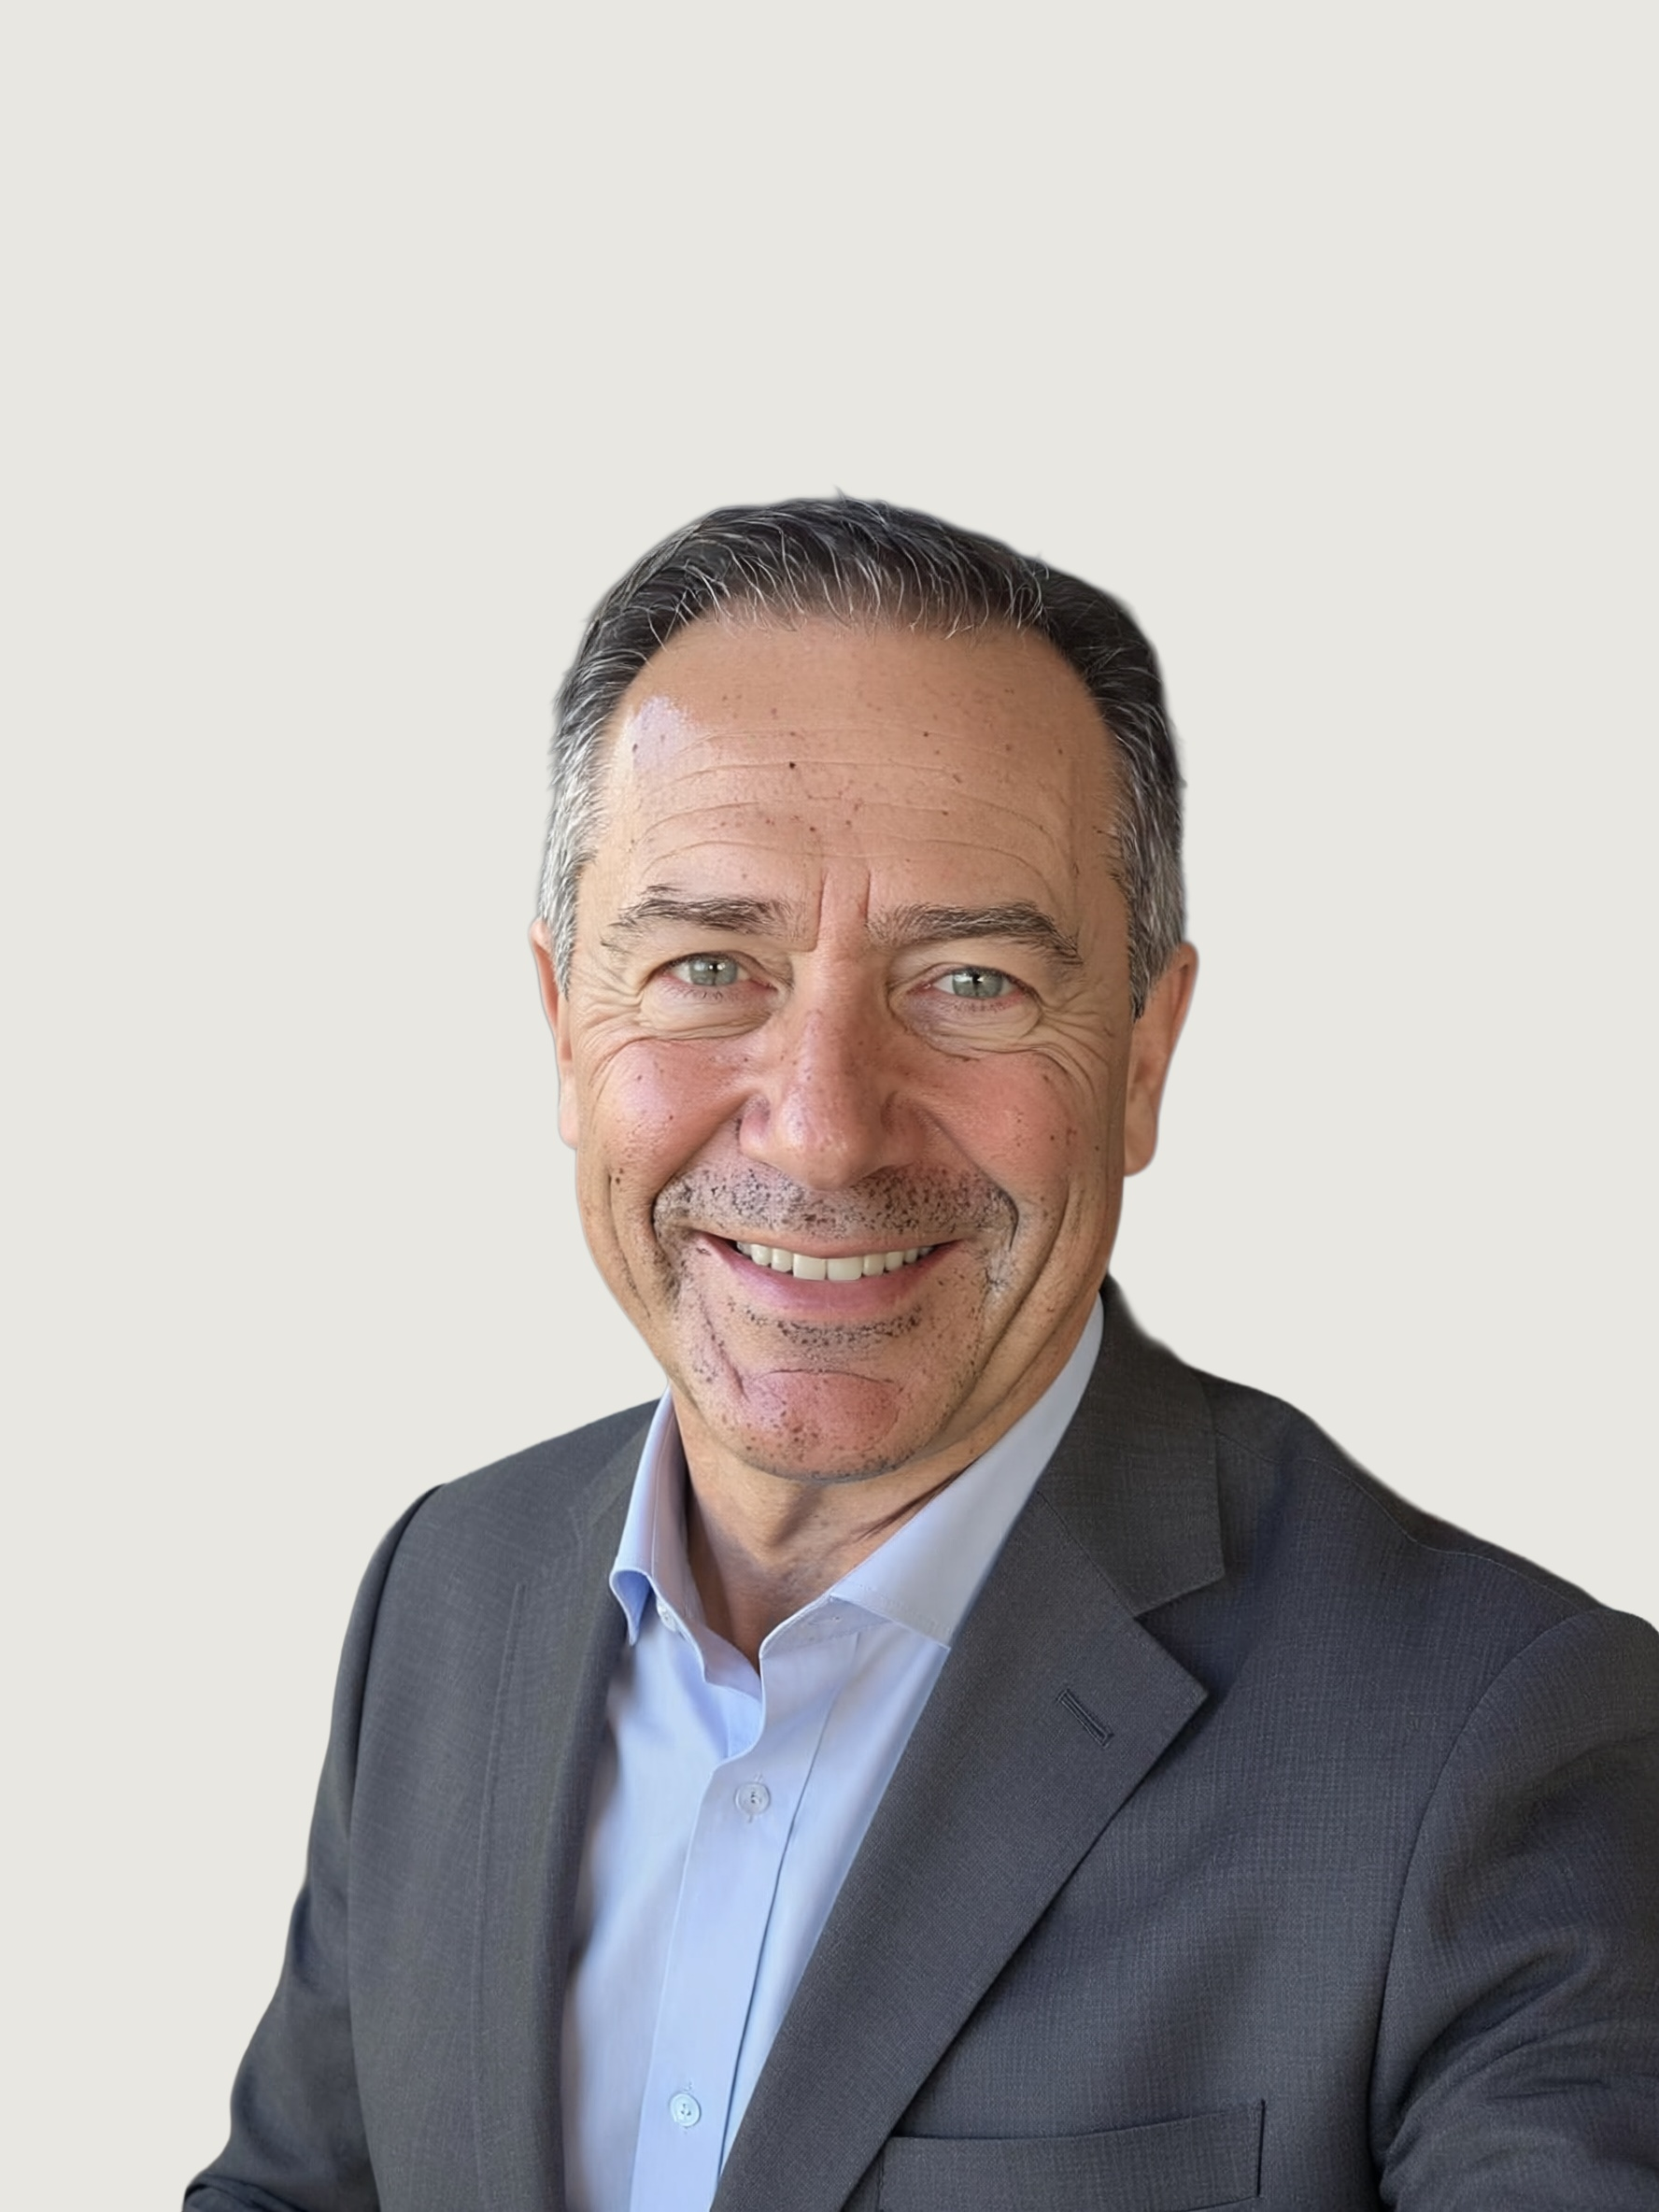
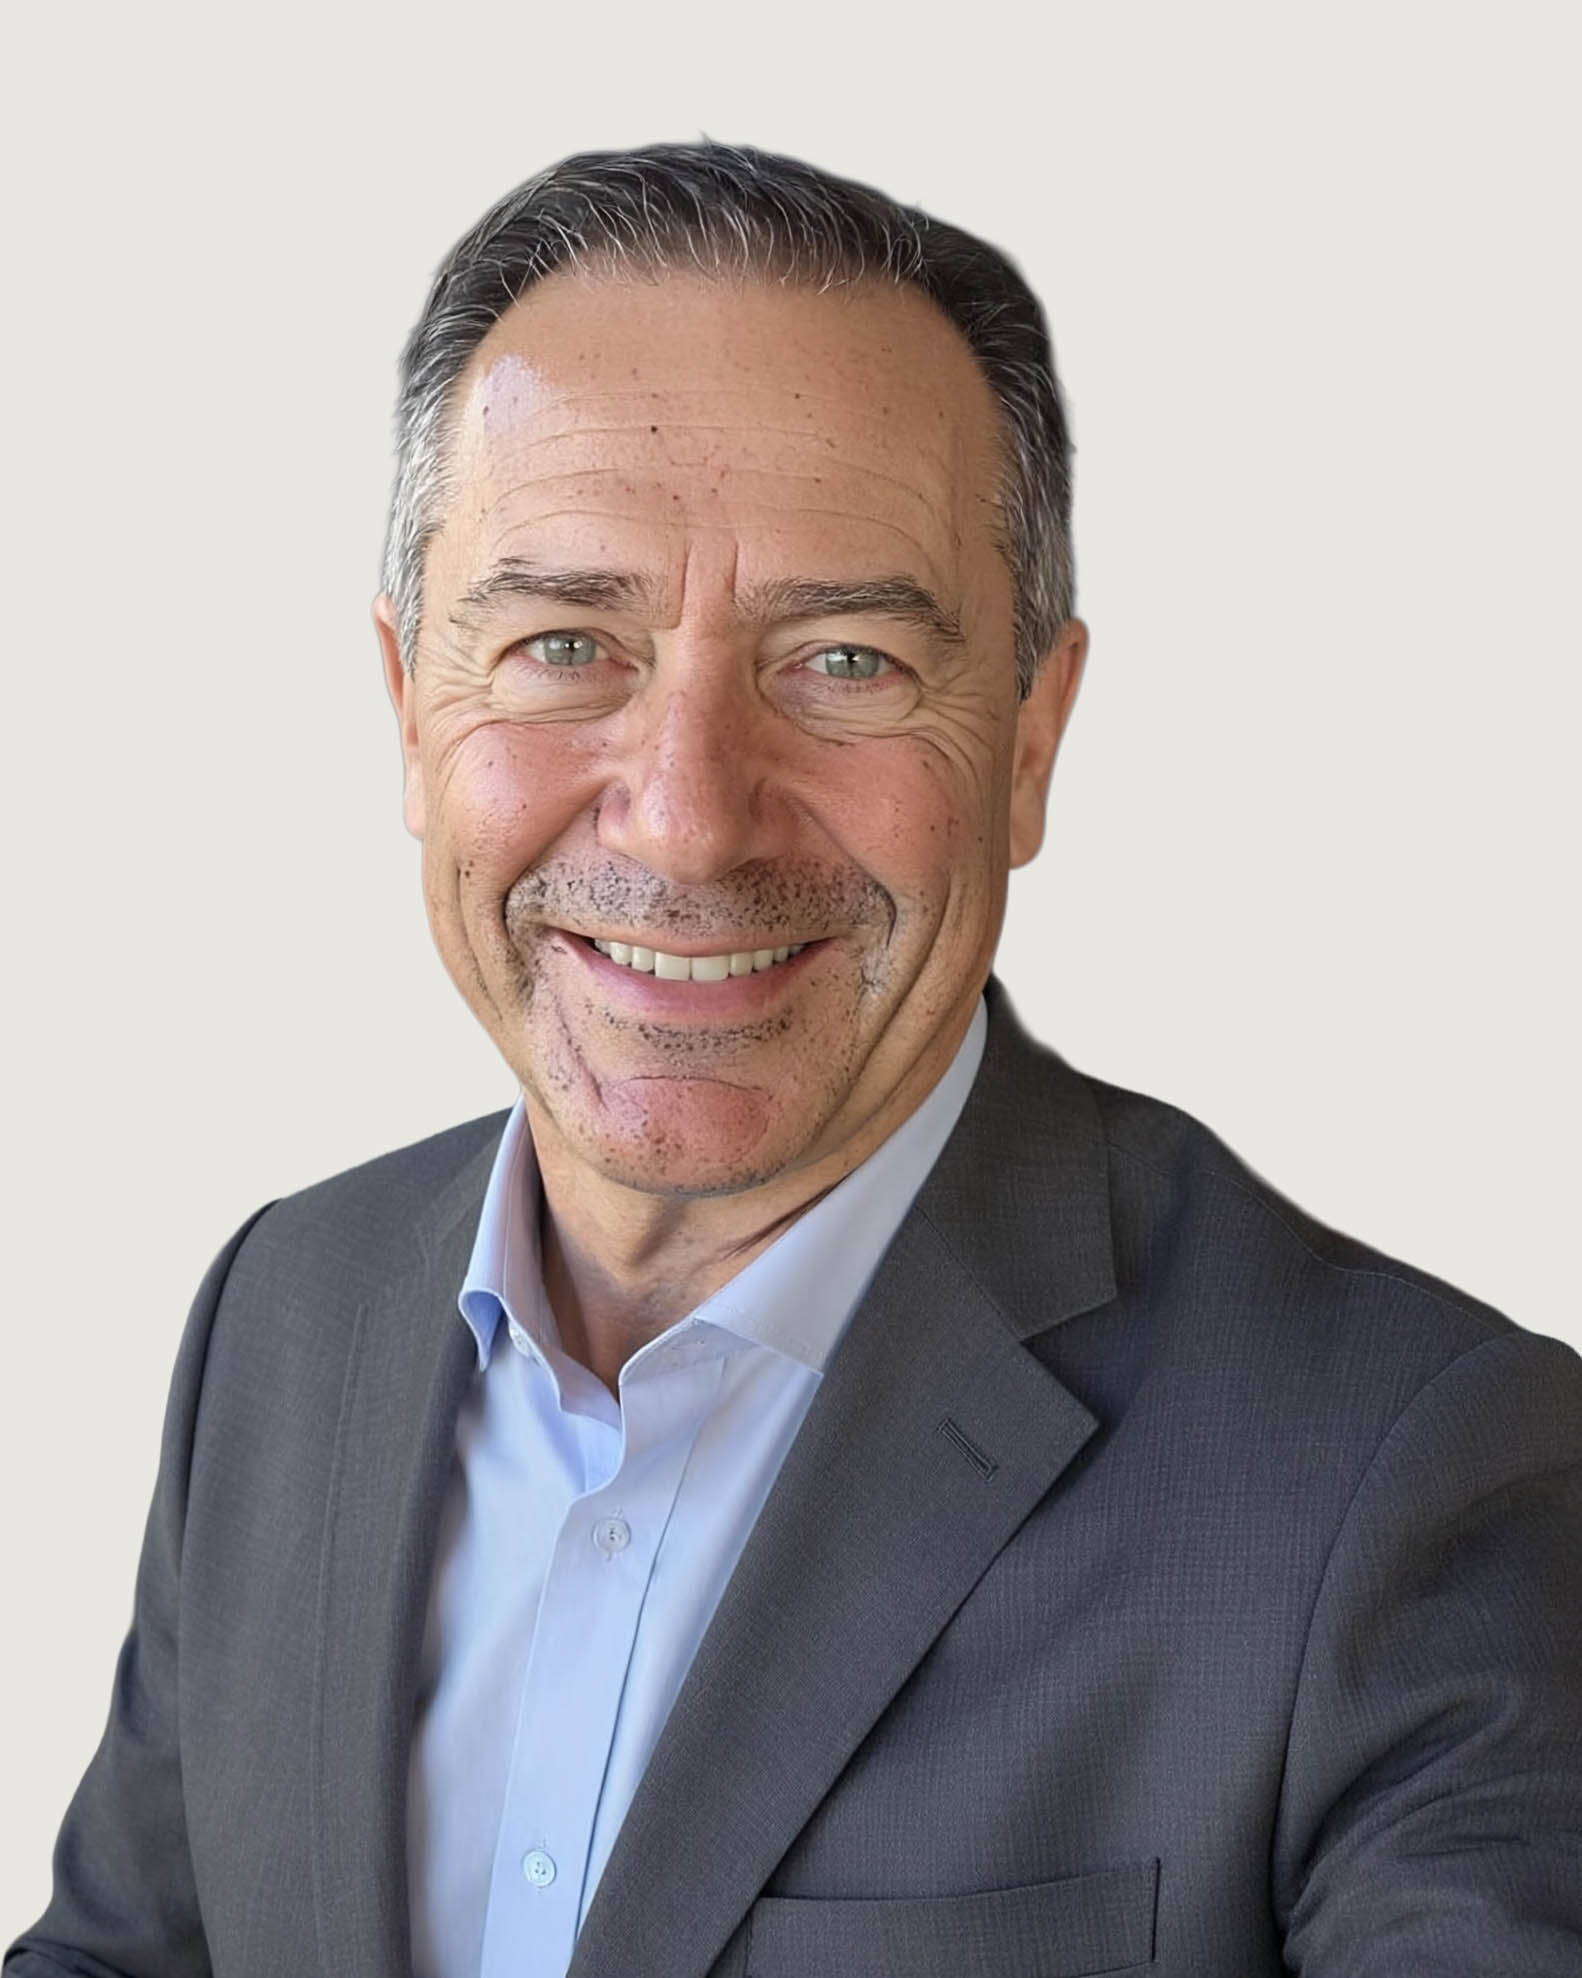
Upgrade Lowe Advisory website

diff --git a/src/app/globals.css b/src/app/globals.css
@@ -46,17 +46,17 @@
   --color-ink-950: #121217;
 
   /* Typography */
-  --font-sans: var(--font-geist-sans), ui-sans-serif, system-ui, -apple-system,
+  --font-sans: ui-sans-serif, system-ui, -apple-system, BlinkMacSystemFont,
     "Segoe UI", Roboto, Helvetica, Arial, sans-serif;
-  --font-serif: var(--font-fraunces), ui-serif, Georgia, Cambria,
-    "Times New Roman", serif;
+  --font-serif: Iowan Old Style, Palatino Linotype, Book Antiqua, Palatino,
+    Georgia, Cambria, "Times New Roman", serif;
 
   /* Radius */
   --radius: 0.5rem;
 }
 
 :root {
-  --background: #ffffff;
+  --background: #faf9f6;
   --foreground: var(--color-ink-900);
 }
 
@@ -67,6 +67,11 @@
 
   body {
     background: var(--background);
+    background-image:
+      radial-gradient(65rem 38rem at 98% -8%, rgba(217, 162, 62, 0.12), transparent 62%),
+      radial-gradient(52rem 32rem at -12% 36%, rgba(45, 78, 135, 0.08), transparent 66%),
+      linear-gradient(115deg, rgba(255, 255, 255, 0.7), rgba(255, 255, 255, 0));
+    background-attachment: fixed;
     color: var(--foreground);
     font-family: var(--font-sans);
     -webkit-font-smoothing: antialiased;
@@ -86,6 +91,54 @@
     outline: 2px solid var(--color-navy-500);
     outline-offset: 2px;
     border-radius: 2px;
+  }
+}
+
+/* Ambient canvas — gives the public pages depth without competing with copy. */
+main {
+  position: relative;
+  isolation: isolate;
+}
+
+main::before {
+  content: "";
+  position: absolute;
+  z-index: -1;
+  inset: 0;
+  pointer-events: none;
+  opacity: 0.7;
+  background-image:
+    radial-gradient(52rem 30rem at 88% 4%, rgba(217, 162, 62, 0.14), transparent 68%),
+    linear-gradient(145deg, rgba(13, 24, 48, 0.025), transparent 36%);
+  background-position: center top;
+  background-size: auto;
+  mask-image: linear-gradient(to bottom, black, transparent 16%, transparent 84%, black);
+}
+
+.brand-background-mark {
+  position: absolute;
+  z-index: -1;
+  top: 4.5rem;
+  right: -8rem;
+  width: min(46vw, 39rem);
+  aspect-ratio: 1;
+  opacity: 0.09;
+  background: url("/images/lowe-advisory-icon.png") center / contain no-repeat;
+  mix-blend-mode: multiply;
+  pointer-events: none;
+  user-select: none;
+}
+
+@media (max-width: 640px) {
+  main::before {
+    opacity: 0.52;
+  }
+
+  .brand-background-mark {
+    top: 2rem;
+    right: -4rem;
+    width: 19rem;
+    opacity: 0.07;
   }
 }
 

diff --git a/src/components/ui/Logo.tsx b/src/components/ui/Logo.tsx
@@ -1,8 +1,10 @@
+import Image from "next/image";
+
 /**
  * Lowe Advisory — Logo Mark
  *
- * Concept: Bold "L" (the firm's initial) with an upward chevron rising
- * from inside the L — growth emerging from a strong foundation.
+ * Concept: An Adobe-created geometric "L" with an amber ascent line —
+ * practical direction and progress from a strong foundation.
  *
  * Colors:
  *   Navy   #0d1830  — the L stroke (authority, depth)
@@ -26,54 +28,23 @@ export function LogoMark({
   className,
   title = "Lowe Advisory",
 }: LogoProps) {
-  const lStroke = variant === "light" ? "#ffffff" : "#0d1830";
-  const chevronStroke = "#d9a23e";
-  const id = `logo-${variant}`;
-
   return (
-    <svg
-      width={size}
-      height={size}
-      viewBox="0 0 48 48"
-      fill="none"
-      className={className}
+    <span
+      className={`inline-flex shrink-0 overflow-hidden rounded-sm ${
+        variant === "light" ? "ring-1 ring-white/15" : "ring-1 ring-navy-100"
+      } ${className ?? ""}`}
       role="img"
       aria-label={title}
+      style={{ width: size, height: size }}
     >
-      <title>{title}</title>
-      <defs>
-        <linearGradient id={id} x1="0" y1="0" x2="1" y2="1">
-          <stop offset="0%" stopColor={chevronStroke} stopOpacity="1" />
-          <stop offset="100%" stopColor={chevronStroke} stopOpacity="0.85" />
-        </linearGradient>
-      </defs>
-      {/* The L */}
-      <path
-        d="M12 8 L12 40 L36 40"
-        stroke={lStroke}
-        strokeWidth="6"
-        strokeLinecap="round"
-        strokeLinejoin="round"
-        fill="none"
+      <Image
+        src="/images/lowe-advisory-icon.png"
+        alt=""
+        width={size}
+        height={size}
+        className="h-full w-full object-cover"
       />
-      {/* Upward chevron rising from inside the L */}
-      <path
-        d="M18 22 L27 13 L36 22"
-        stroke={`url(#${id})`}
-        strokeWidth="5"
-        strokeLinecap="round"
-        strokeLinejoin="round"
-        fill="none"
-      />
-      {/* Stem of the arrow, continuing upward momentum */}
-      <path
-        d="M27 13 L27 30"
-        stroke={`url(#${id})`}
-        strokeWidth="5"
-        strokeLinecap="round"
-        fill="none"
-      />
-    </svg>
+    </span>
   );
 }
 

diff --git a/src/app/contact/page.tsx b/src/app/contact/page.tsx
@@ -51,28 +51,30 @@ export default function ContactPage() {
             {/* Sidebar — booking + details */}
             <div className="lg:col-span-5">
               <div className="space-y-6">
-                <div className="rounded-2xl border border-navy-100 bg-navy-50 p-7">
-                  <span className="flex h-11 w-11 items-center justify-center rounded-lg bg-navy-900 text-amber-400">
-                    <Icon name="sparkles" size={22} />
-                  </span>
-                  <h3 className="mt-4 text-lg font-semibold text-navy-950">
-                    Prefer to book directly?
-                  </h3>
-                  <p className="mt-2 text-sm leading-relaxed text-ink-600">
-                    Grab a focused 30-minute strategy call on the calendar. Pick
-                    a time that works for you.
-                  </p>
-                  <Button
-                    href={site.bookingUrl}
-                    external
-                    size="md"
-                    variant="secondary"
-                    className="mt-5 w-full"
-                  >
-                    Book a Strategy Call
-                    <Icon name="arrow-up-right" size={16} />
-                  </Button>
-                </div>
+                {site.bookingUrl && (
+                  <div className="rounded-2xl border border-navy-100 bg-navy-50 p-7">
+                    <span className="flex h-11 w-11 items-center justify-center rounded-lg bg-navy-900 text-amber-400">
+                      <Icon name="sparkles" size={22} />
+                    </span>
+                    <h3 className="mt-4 text-lg font-semibold text-navy-950">
+                      Prefer to book directly?
+                    </h3>
+                    <p className="mt-2 text-sm leading-relaxed text-ink-600">
+                      Grab a focused 30-minute strategy call on the calendar. Pick
+                      a time that works for you.
+                    </p>
+                    <Button
+                      href={site.bookingUrl}
+                      external
+                      size="md"
+                      variant="secondary"
+                      className="mt-5 w-full"
+                    >
+                      Book a Strategy Call
+                      <Icon name="arrow-up-right" size={16} />
+                    </Button>
+                  </div>
+                )}
 
                 <div className="rounded-2xl border border-ink-100 bg-white p-7">
                   <h3 className="text-base font-semibold text-navy-950">

diff --git a/src/app/layout.tsx b/src/app/layout.tsx
@@ -1,23 +1,9 @@
 import type { Metadata } from "next";
-import { Geist } from "next/font/google";
-import { Fraunces } from "next/font/google";
+import Script from "next/script";
 import "./globals.css";
 import { Header } from "@/components/layout/Header";
 import { Footer } from "@/components/layout/Footer";
 import { site } from "@/lib/site";
-
-const geistSans = Geist({
-  variable: "--font-geist-sans",
-  subsets: ["latin"],
-  display: "swap",
-});
-
-const fraunces = Fraunces({
-  variable: "--font-fraunces",
-  subsets: ["latin"],
-  display: "swap",
-  axes: ["SOFT", "WONK", "opsz"],
-});
 
 export const metadata: Metadata = {
   metadataBase: new URL(site.url),
@@ -55,12 +41,16 @@ export const metadata: Metadata = {
     follow: true,
     googleBot: { index: true, follow: true },
   },
+  verification: process.env.NEXT_PUBLIC_GOOGLE_SITE_VERIFICATION
+    ? { google: process.env.NEXT_PUBLIC_GOOGLE_SITE_VERIFICATION }
+    : undefined,
   alternates: { canonical: site.url },
 };
 
 export default function RootLayout({
   children,
 }: Readonly<{ children: React.ReactNode }>) {
+  const googleMeasurementId = process.env.NEXT_PUBLIC_GA_MEASUREMENT_ID;
   const jsonLd = {
     "@context": "https://schema.org",
     "@type": "ProfessionalService",
@@ -81,17 +71,28 @@ export default function RootLayout({
   };
 
   return (
-    <html
-      lang="en"
-      className={`${geistSans.variable} ${fraunces.variable} h-full antialiased`}
-    >
+    <html lang="en" className="h-full antialiased">
       <body className="flex min-h-full flex-col bg-white text-ink-900">
+        {googleMeasurementId && (
+          <>
+            <Script
+              src={`https://www.googletagmanager.com/gtag/js?id=${googleMeasurementId}`}
+              strategy="afterInteractive"
+            />
+            <Script id="google-analytics" strategy="afterInteractive">
+              {`window.dataLayer = window.dataLayer || []; function gtag(){dataLayer.push(arguments);} gtag('js', new Date()); gtag('config', '${googleMeasurementId}', { anonymize_ip: true });`}
+            </Script>
+          </>
+        )}
         <script
           type="application/ld+json"
           dangerouslySetInnerHTML={{ __html: JSON.stringify(jsonLd) }}
         />
         <Header />
-        <main className="flex-1">{children}</main>
+        <main className="flex-1">
+          <div aria-hidden className="brand-background-mark" />
+          {children}
+        </main>
         <Footer />
       </body>
     </html>

diff --git a/src/app/api/contact/route.ts b/src/app/api/contact/route.ts
@@ -47,12 +47,13 @@ export async function POST(request: Request) {
   const apiKey = process.env.RESEND_API_KEY;
   const to = process.env.CONTACT_TO_EMAIL || site.contactEmail;
 
-  // No API key → log and acknowledge (preview/dev mode).
+  // No provider configured: do not imply that a lead was delivered.
   if (!apiKey) {
-    console.log("[contact] (no RESEND_API_KEY) submission:", payload);
     return NextResponse.json(
-      { ok: true, note: "Logged (no email provider configured)." },
-      { status: 200 },
+      {
+        error: `Email delivery is being configured. Please contact us directly at ${site.contactEmail}.`,
+      },
+      { status: 503 },
     );
   }
 

diff --git a/src/lib/site.ts b/src/lib/site.ts
@@ -30,8 +30,8 @@ export const site = {
   /** ✅ Set — where the form submissions + inquiries are sent */
   contactEmail: "[email redacted]",
 
-  /** ⚙️ EDIT ME — your Cal.com / Calendly booking link (set up later). */
-  bookingUrl: "https://cal.com/lowe-advisory",
+  /** Add your verified Cal.com / Calendly URL to enable direct booking. */
+  bookingUrl: "",
 
   /** ✅ Shown in footer + contact page. */
   location: "1301 N Mechanic St, El Campo, TX 77437",

diff --git a/src/components/layout/Footer.tsx b/src/components/layout/Footer.tsx
@@ -67,7 +67,7 @@ export function Footer() {
 
         <div className="mt-12 flex flex-col items-start justify-between gap-4 border-t border-navy-800 pt-6 text-sm text-navy-400 sm:flex-row sm:items-center">
           <p>
-            © {new Date().getFullYear()} {site.name}. All rights reserved.
+            © 2017 {site.name}. All rights reserved.
           </p>
           <div className="flex flex-wrap items-center gap-x-5 gap-y-2">
             <Link href="/privacy" className="hover:text-white">

diff --git a/README.md b/README.md
@@ -93,7 +93,7 @@ The form at `/contact` posts to `/api/contact`, which:
 2. Validates name/email/message.
 3. Sends the inquiry to `[email redacted]` via **Resend**.
 
-**Without a Resend API key** (e.g. in local dev), submissions are logged to the server console and acknowledged — the form still works, just no email is sent.
+**Without a Resend API key**, the form clearly tells the visitor that email delivery is being configured. It never claims an inquiry was delivered when it was not.
 
 **To enable real email delivery:**
 1. Create a free account at [resend.com](https://resend.com).
@@ -110,7 +110,7 @@ The form at `/contact` posts to `/api/contact`, which:
 
 ## 📅 Booking calls (Cal.com)
 
-The "Book a Strategy Call" buttons link to `bookingUrl` in `site.ts` (currently `https://cal.com/lowe-advisory`). To make this live:
+The "Book a Strategy Call" buttons link to `bookingUrl` in `site.ts`. The direct-booking panel remains hidden until a verified link is added; all other calls to action safely lead to the contact page. To make direct booking live:
 1. Create a free account at [cal.com](https://cal.com).
 2. Set up a 30-minute "Strategy Call" event type.
 3. Update `bookingUrl` in `src/lib/site.ts` to your real link.
@@ -152,6 +152,8 @@ Once deployed and you're ready to go live:
 | `RESEND_API_KEY` | Send contact form emails | Only for live email |
 | `RESEND_FROM` | "From" address for emails | Only for live email |
 | `CONTACT_TO_EMAIL` | Where inquiries are sent | Only for live email |
+| `NEXT_PUBLIC_GA_MEASUREMENT_ID` | Google Analytics 4 measurement ID (`G-…`) | Optional |
+| `NEXT_PUBLIC_GOOGLE_SITE_VERIFICATION` | Google Search Console verification token | Optional |
 
 Copy `.env.example` → `.env.local` locally. In Vercel, add them in the dashboard. **Never commit `.env.local`.**
 